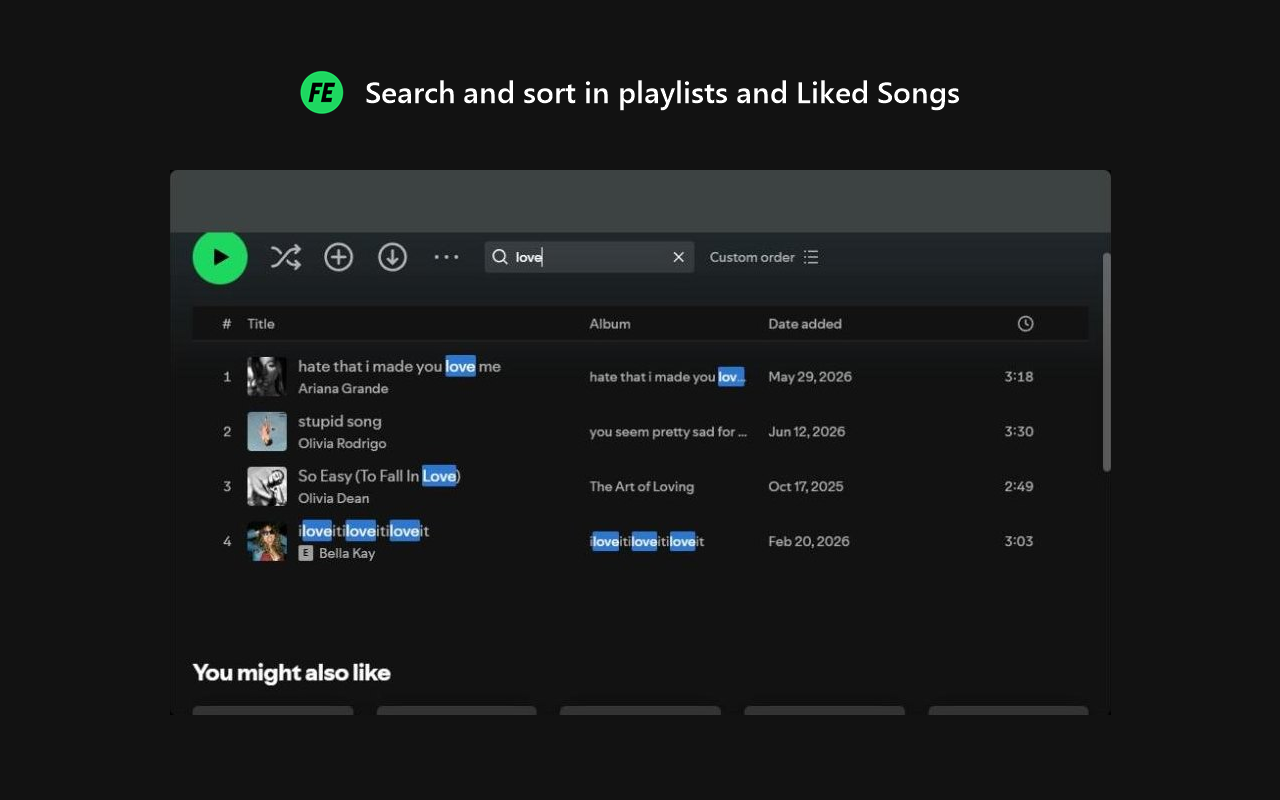
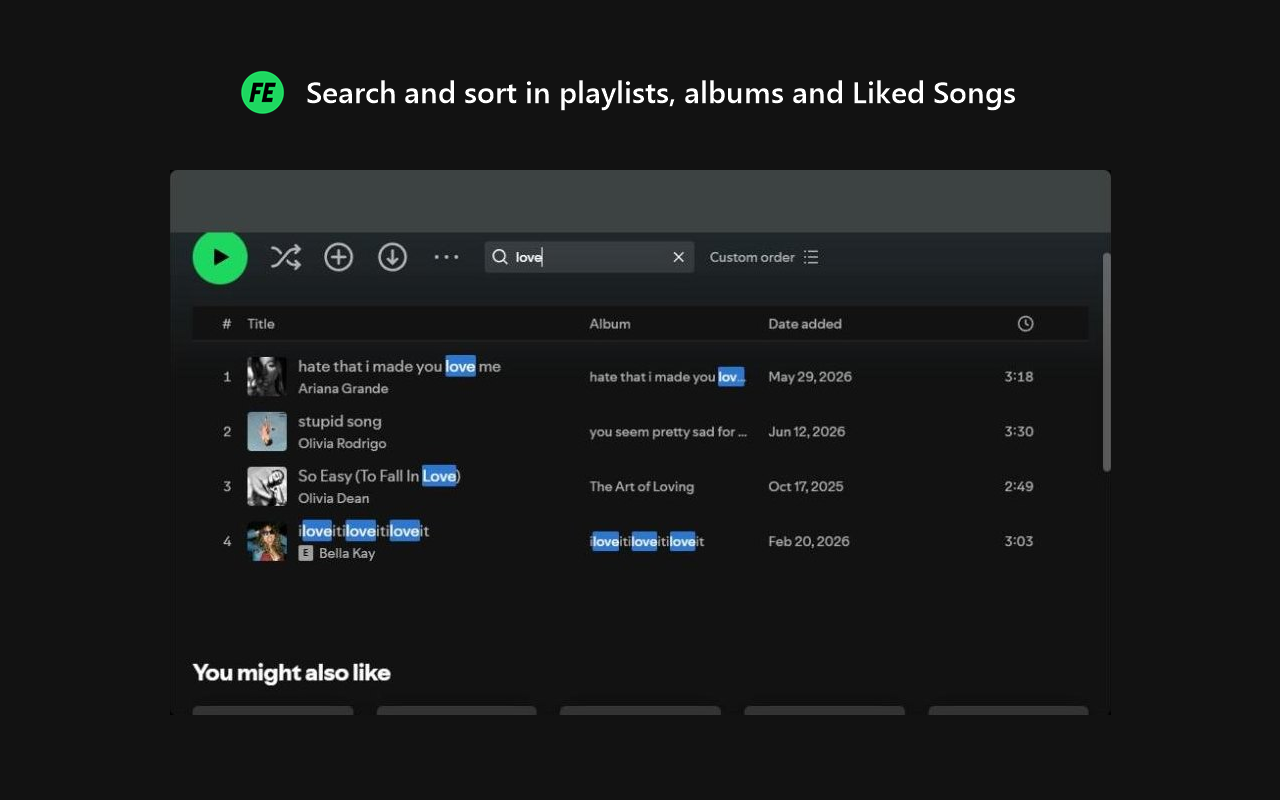
docs: screenshots and store listing for 2026.10.12

Changed region(s): [[0.1875, 0.0938, 0.7812, 0.1562]]

diff --git a/store/chrome/listing.md b/store/chrome/listing.md
@@ -22,19 +22,25 @@ Text to paste into the Developer Dashboard. Images are in this folder.
 The Spotify web player lacks a few things the desktop app has. This extension adds them to open.spotify.com.
 
 PLAY COUNTS ON ALBUM PAGES
-A "Plays" column next to each song, as in the desktop app, formatted for your language.
+A "Plays" column next to each song, as in the desktop app, formatted for your language. Sort an album by plays to find its most played songs.
+
+GENRE AND MOOD FILTERS IN LIKED SONGS
+Chips under the Liked Songs action bar, like the desktop app's: pick a genre or a mood (Rock, Chill, Nostalgia…) to see only those songs, with their count and length.
 
 LIKED SONGS ON ARTIST PAGES
-How many of the artist's songs you liked, and their list. Double click to play a song. Each row has the desktop's menu: add to playlist, remove from Liked Songs, add to queue, go to artist or album, share.
+How many of the artist's songs you liked, and their list. Double click to play a song.
 
 SEARCH AND SORT IN PLAYLISTS AND ALBUMS
-Search inside a playlist or Liked Songs, and sort by title, artist, album, date added or duration. Sort albums by plays to find their most played songs.
+Search inside a playlist, an album or Liked Songs, and sort by title, artist, album, date added or duration.
+
+THE FULL SONG MENU
+In every list of the extension, the "…" menu has the player's entries: add to playlist, save or remove from Liked Songs, add to queue, exclude from your taste profile, go to song radio, go to artist or album, view credits, share, open in the desktop app.
 
 SETTINGS
 Click the extension icon to turn each feature on or off, or the whole extension at once. English and Italian.
 
 PRIVACY
-No server, no analytics, no tracking. The extension reads what the web player already receives and only talks to Spotify. Your liked songs index stays in your browser. Play and library actions run only when you click them.
+No server, no analytics, no tracking. The extension reads what the web player already receives and only talks to Spotify. Your liked songs index and their genres stay in your browser. Play and library actions run only when you click them.
 
 It never touches audio, DRM or ads, and does not unlock Premium features.
 
@@ -58,7 +64,7 @@ Unofficial project, not affiliated with, endorsed by or sponsored by Spotify. "S
 **Single purpose:**
 
 ```
-Adds features of the Spotify desktop app to the Spotify web player (open.spotify.com): play counts on album pages, liked songs on artist pages, and search and sort in playlists and albums.
+Adds features of the Spotify desktop app to the Spotify web player (open.spotify.com): play counts on album pages, genre and mood filters in Liked Songs, liked songs on artist pages, search and sort in playlists and albums, and the full song menu.
 ```
 
 **Permission justification, storage:**
@@ -75,7 +81,7 @@ The extension only works on the Spotify web player: it adds columns, sections an
 
 **Remote code:** No, I am not using remote code. All code is in the package.
 
-**Data usage:** tick **Website content** (the extension reads songs, playlists and liked songs from Spotify pages and keeps a liked songs index in local storage). Leave the other categories unticked: it collects no personal identifiers, location, browsing history or credentials, and sends nothing to the developer.
+**Data usage:** tick **Website content** (the extension reads songs, playlists and liked songs from Spotify pages and keeps a liked songs index, with their genres, in local storage). Leave the other categories unticked: it collects no personal identifiers, location, browsing history or credentials, and sends nothing to the developer.
 
 Then tick the three certifications (no sale of data, no use unrelated to the single purpose, no use for creditworthiness or lending).
 

diff --git a/README.md b/README.md
@@ -16,6 +16,10 @@ I blurred my own songs in the screenshots.
 | --- | --- |
 | ![Album page without play counts](docs/images/album-before.jpg) | ![Album page with a play count column](docs/images/album-after.jpg) |
 
+Albums can also be sorted by plays, to find their most played songs (the desktop app cannot sort albums).
+
+![Album sorted by plays](docs/images/album-sort.jpg)
+
 ### Liked songs on artist pages
 
 The artist page tells you how many of the artist's songs you liked. Like the desktop app, it counts only songs where they are the main artist. Click it to open the list.
@@ -24,17 +28,19 @@ The artist page tells you how many of the artist's songs you liked. Like the des
 | --- | --- |
 | ![Artist page without liked songs](docs/images/artist-before.jpg) | ![Artist page with a liked songs section](docs/images/artist-after.jpg) |
 
-A double click plays a song, and each row has the desktop's menu: add to playlist, remove from liked songs, add to queue, go to artist or album, share.
+A double click plays a song, and each row has the player's full menu: add to playlist, remove from Liked Songs, add to queue, exclude from your taste profile, go to song radio, go to artist or album, view credits, share, open in the desktop app.
 
 ![Liked songs of an artist, with the row menu](docs/images/liked-by-artist.jpg)
 
 ### Genre and mood filters in Liked Songs
 
-Chips under the action bar, like the desktop app's, filter your liked songs by genre or mood. They use the genres and moods Spotify gives each song; which chips appear is chosen by the extension, so it can differ a little from the desktop app.
+Chips under the action bar, like the desktop app's, filter your liked songs by genre or mood. They use the genres and moods Spotify gives each song; which chips appear is chosen by the extension, so it can differ a little from the desktop app. With a chip chosen, the header shows its song count and length.
+
+![Genre and mood chips in Liked Songs](docs/images/liked-chips.jpg)
 
 ### Search and sort in playlists and albums
 
-You can search a playlist or Liked Songs, and sort it by title, artist, album, date added or duration. Albums can be searched too, and sorted by plays, title or duration (the desktop app cannot sort albums).
+You can search a playlist, an album or Liked Songs, and sort it by title, artist, album, date added or duration.
 
 | Before | After |
 | --- | --- |
